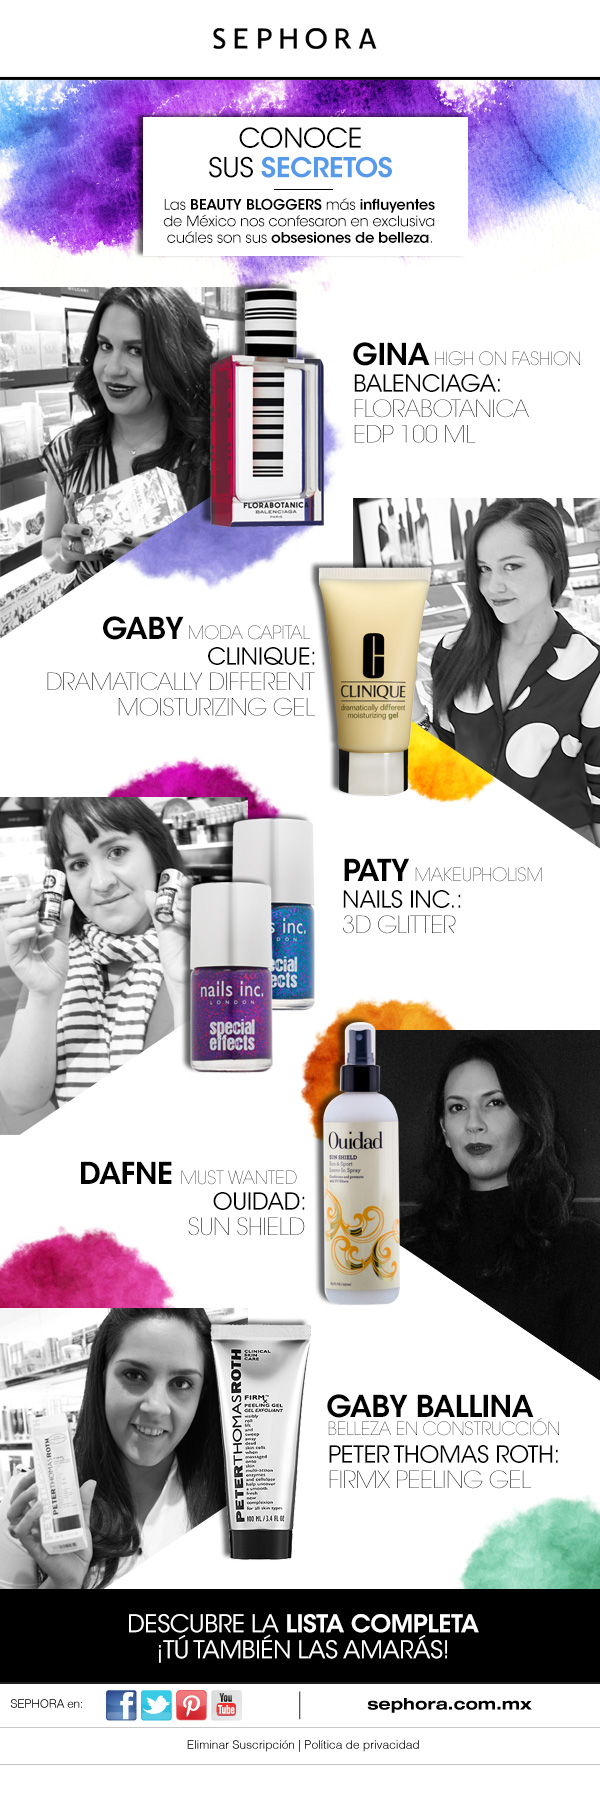
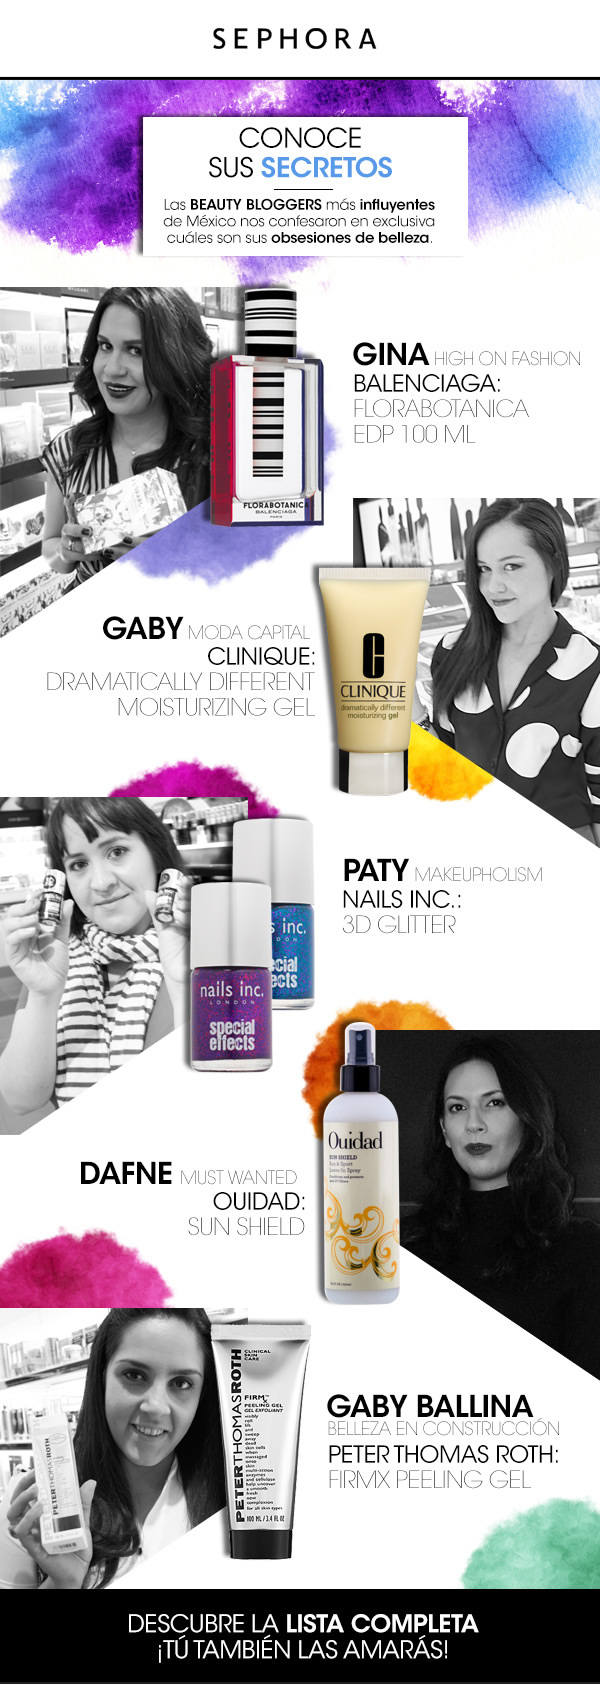
Archivos para mail obsessions 2

diff --git a/public/mailings/042013/obsessions/index.html b/public/mailings/042013/obsessions/index.html
@@ -38,7 +38,7 @@ a:active {
     <td colspan="5">&nbsp;</td>
   </tr>
   <tr>
-    <td colspan="5"><a href="http://sephora.com.mx/obsessionsbeautybloggers"><img src="OBSESSIONS.jpg" alt="Conoce los secretos de las bloggers más influyentes de México" width="600" height="1800" border="0"></a></td>
+    <td colspan="5"><a href="http://sephora.com.mx/obsessionsbeautybloggers"><img src="OBSESSIONS.jpg" alt="Conoce los secretos de las bloggers más influyentes de México" width="600" height="1685" border="0"></a></td>
   </tr>
   <tr>
     <td colspan="5"><table style="display: inline-table;" border="0" cellpadding="0" cellspacing="0" width="600">
